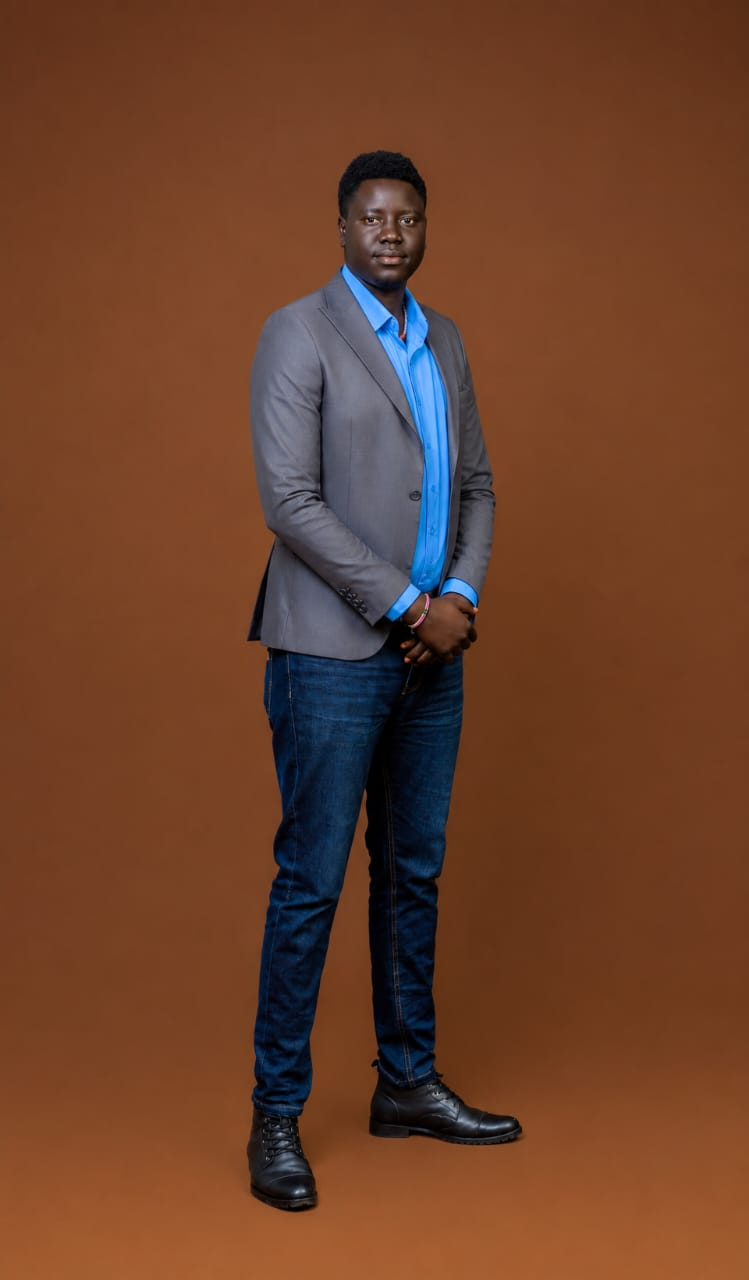
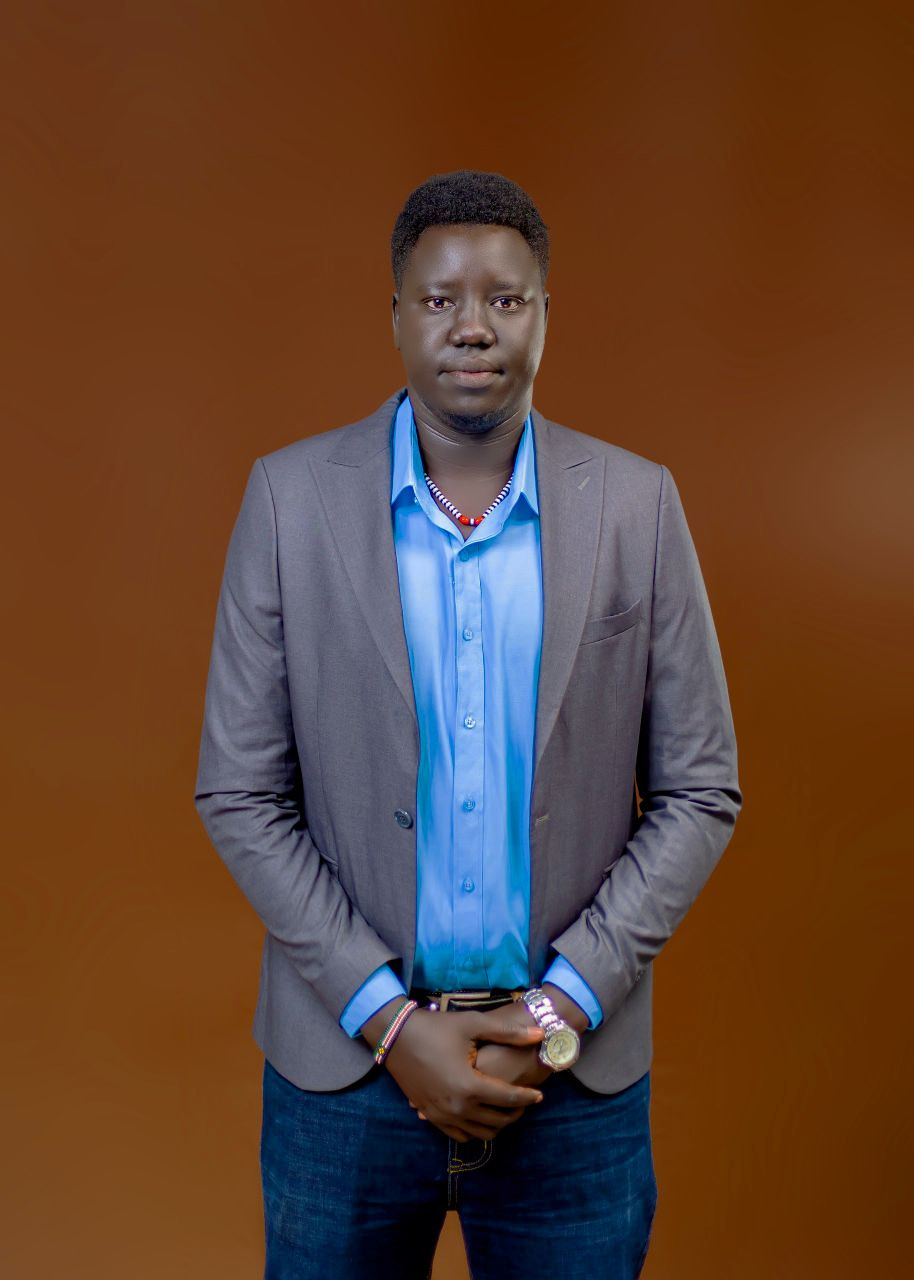
Update guest names and titles
- Mr. Mayol Mach Garang — Invited Guest
- Jacob Manyuon Deng — Guest of Honor
- Peter Lual Reech Deng — Chief Guest

diff --git a/src/content.js b/src/content.js
@@ -161,8 +161,8 @@ export const leadership = [
 export const guests = [
   {
     id: "g1",
-    name: "Mayol",
-    title: "Guest of Honour",
+    name: "Mr. Mayol Mach Garang",
+    title: "Invited Guest",
     photo: "/photos/guests/mayol-guest-of-honor.jpg",
     bio:
       "PLACEHOLDER longer biography for the detail page — several sentences about " +
@@ -173,8 +173,8 @@ export const guests = [
   },
   {
     id: "g2",
-    name: "Jacob",
-    title: "Invited Guest",
+    name: "Jacob Manyuon Deng",
+    title: "Guest of Honor",
     photo: "/photos/guests/jacob-invited-guest.png",
     bio:
       "PLACEHOLDER longer biography for the detail page — several sentences about " +
@@ -185,8 +185,8 @@ export const guests = [
   },
   {
     id: "g3",
-    name: "Peter",
-    title: "Invited Guest",
+    name: "Peter Lual Reech Deng",
+    title: "Chief Guest",
     photo: "/photos/guests/peter-invited-guest.jpg",
     bio:
       "PLACEHOLDER longer biography for the detail page — several sentences about " +